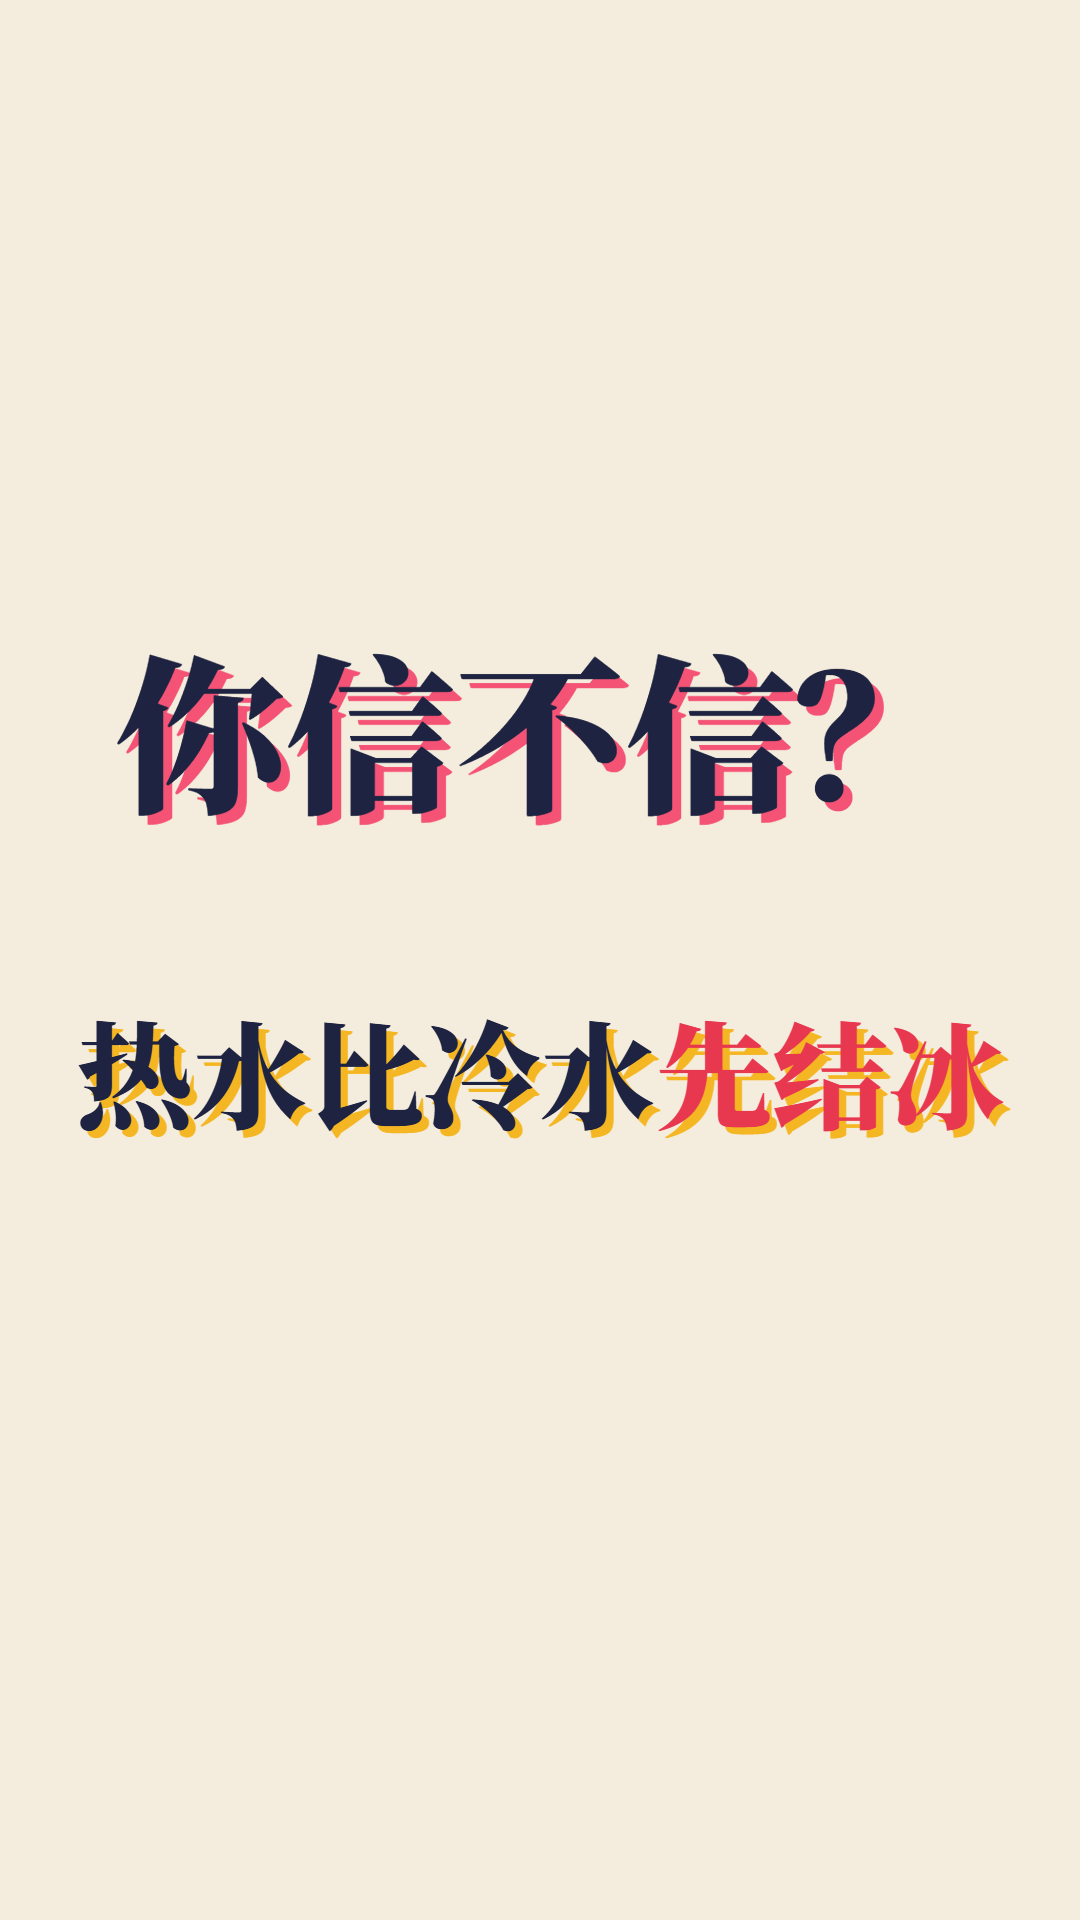
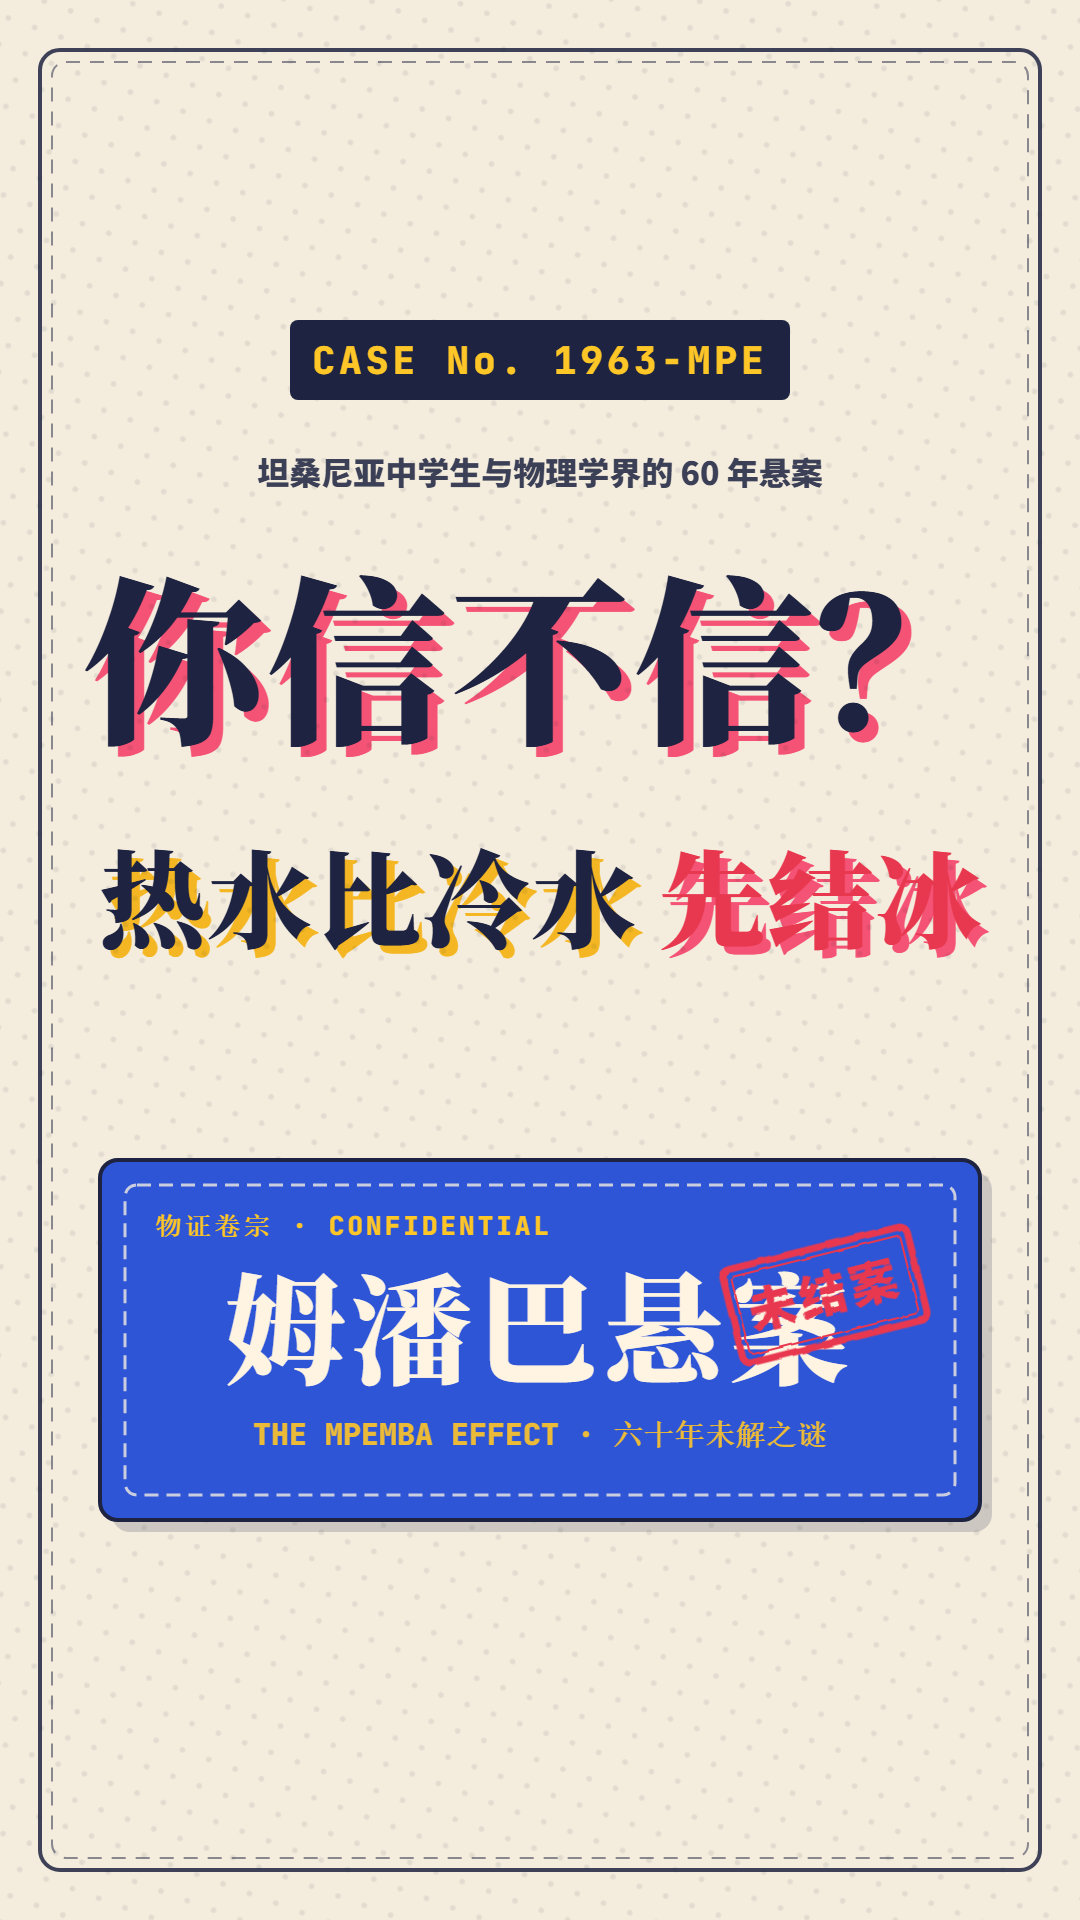
films/mpemba: rework the vertical cover layout (case header, folder card, safe margins)

Changed region(s): [[0.0306, 0.0312, 0.9778, 0.9688], [0.0917, 0.2812, 0.9167, 0.5], [0.2444, 0.1562, 0.7639, 0.25]]

diff --git a/films/mpemba/cover.html b/films/mpemba/cover.html
@@ -12,48 +12,111 @@
 </head>
 <body>
 <svg id="cover" width="1080" height="1920" viewBox="0 0 1080 1920" xmlns="http://www.w3.org/2000/svg">
+  <defs>
+    <pattern id="halftoneDots" width="28" height="28" patternUnits="userSpaceOnUse" patternTransform="rotate(20)">
+      <circle cx="14" cy="14" r="2.8" fill="#1D2340" opacity="0.08"/>
+    </pattern>
+    <filter id="stampRough">
+      <feTurbulence type="fractalNoise" baseFrequency="0.05" numOctaves="3" result="noise"/>
+      <feDisplacementMap in="SourceGraphic" in2="noise" scale="3.5" xChannelSelector="R" yChannelSelector="G"/>
+    </filter>
+  </defs>
+
+  <!-- Paper background & halftone overlay -->
+  <rect width="1080" height="1920" fill="#F4ECDD"/>
+  <rect width="1080" height="1920" fill="url(#halftoneDots)" class="mul"/>
+
+  <!-- Outer dossier border -->
+  <rect x="40" y="50" width="1000" height="1820" rx="20" fill="none" stroke="#1D2340" stroke-width="4" opacity="0.85"/>
+  <rect x="52" y="62" width="976" height="1796" rx="14" fill="none" stroke="#1D2340" stroke-width="2" stroke-dasharray="14 10" opacity="0.5"/>
+
   <g id="g"></g>
 </svg>
 <script>
 const NS = 'http://www.w3.org/2000/svg';
-const C = { paper:'#F4ECDD', navy:'#1D2340', pink:'#FF5A87', yellow:'#FFC628', red:'#E8384F' };
-const F = { serif:"'Noto Serif SC'" };
+const C = { paper:'#F4ECDD', navy:'#1D2340', blue:'#2E55D6', pink:'#FF5A87', yellow:'#FFC628', red:'#E8384F', cream:'#FFF4E2' };
+const F = { serif:"'Noto Serif SC', serif", mono:"'JetBrains Mono', monospace", sans:"'Noto Sans SC', sans-serif" };
 const g = document.getElementById('g');
 const el = (t, a, p) => { const e = document.createElementNS(NS, t); for (const k in a) e.setAttribute(k, a[k]); if (p) p.appendChild(e); return e; };
 const txt = (p, s, a) => { const e = el('text', a, p); e.textContent = s; return e; };
+
 function measure(str, size, family, weight = 900) {
   const c = document.createElement('canvas').getContext('2d');
   c.font = `${weight} ${size}px ${family}`; return c.measureText(str).width;
 }
-// 两行大字：①你信不信？ ②热水比冷水先结冰（关键词红色），垂直分隔确保不重叠
+
+// 1. Top Case Header Tag
+{
+  const topBox = el('g', { transform: 'translate(540, 360)' }, g);
+  el('rect', { x: -250, y: -40, width: 500, height: 80, rx: 8, fill: C.navy }, topBox);
+  txt(topBox, 'CASE No. 1963-MPE', { x: 0, y: 14, 'font-size': 38, 'font-family': F.mono, 'font-weight': 800, fill: C.yellow, 'text-anchor': 'middle', 'letter-spacing': 4 });
+
+  txt(g, '坦桑尼亚中学生与物理学界的 60 年悬案', { x: 540, y: 485, 'font-size': 32, 'font-family': F.sans, 'font-weight': 700, fill: C.navy, 'text-anchor': 'middle', opacity: 0.85 });
+}
+
+// 2. Main Hook Big Headlines
 const A = '你信不信？';
 const B1 = '热水比冷水', B2 = '先结冰';
-const SZ1 = 170, SZ2 = 116;
-const Y1 = 800, Y2 = 1120;
+const SZ1 = 180, SZ2 = 106;
+const Y1 = 730, Y2 = 940;
 const wA = measure(A, SZ1, F.serif, 900);
 const wB1 = measure(B1, SZ2, F.serif, 900), wB2 = measure(B2, SZ2, F.serif, 900);
-// 行1（居中，粉色套印阴影）
+
+// Line 1: 你信不信？
 {
   let x = 540 - wA / 2;
   for (const ch of A) {
     const w = measure(ch, SZ1, F.serif, 900);
-    txt(g, ch, { x: x + w / 2 + 9, y: Y1 + 9, 'font-size': SZ1, 'font-family': F.serif, 'font-weight': 900, fill: C.pink, 'text-anchor': 'middle', class: 'mul' });
+    txt(g, ch, { x: x + w / 2 + 10, y: Y1 + 10, 'font-size': SZ1, 'font-family': F.serif, 'font-weight': 900, fill: C.pink, 'text-anchor': 'middle', class: 'mul' });
     txt(g, ch, { x: x + w / 2, y: Y1, 'font-size': SZ1, 'font-family': F.serif, 'font-weight': 900, fill: C.navy, 'text-anchor': 'middle' });
     x += w;
   }
 }
-// 行2（居中，前五字墨色 + 关键词红色）
+
+// Line 2: 热水比冷水 先结冰
+// Total width is safely ~850px, leaving >110px safe margin on left and right, ensuring "热" is never clipped!
 {
-  const x0 = 540 - (wB1 + wB2) / 2;
+  const totalB = wB1 + wB2 + 20; // 20px gap between parts
+  const x0 = 540 - totalB / 2;
   let x = x0;
-  for (const [str, col] of [[B1, C.navy], [B2, C.red]]) {
-    for (const ch of str) {
-      const w = measure(ch, SZ2, F.serif, 900);
-      txt(g, ch, { x: x + w / 2 + 7, y: Y2 + 7, 'font-size': SZ2, 'font-family': F.serif, 'font-weight': 900, fill: C.yellow, 'text-anchor': 'middle', class: 'mul' });
-      txt(g, ch, { x: x + w / 2, y: Y2, 'font-size': SZ2, 'font-family': F.serif, 'font-weight': 900, fill: col, 'text-anchor': 'middle' });
-      x += w;
-    }
+
+  for (const ch of B1) {
+    const w = measure(ch, SZ2, F.serif, 900);
+    txt(g, ch, { x: x + w / 2 + 8, y: Y2 + 8, 'font-size': SZ2, 'font-family': F.serif, 'font-weight': 900, fill: C.yellow, 'text-anchor': 'middle', class: 'mul' });
+    txt(g, ch, { x: x + w / 2, y: Y2, 'font-size': SZ2, 'font-family': F.serif, 'font-weight': 900, fill: C.navy, 'text-anchor': 'middle' });
+    x += w;
   }
+
+  x += 20; // gap
+
+  for (const ch of B2) {
+    const w = measure(ch, SZ2, F.serif, 900);
+    txt(g, ch, { x: x + w / 2 + 8, y: Y2 + 8, 'font-size': SZ2, 'font-family': F.serif, 'font-weight': 900, fill: C.pink, 'text-anchor': 'middle', class: 'mul' });
+    txt(g, ch, { x: x + w / 2, y: Y2, 'font-size': SZ2, 'font-family': F.serif, 'font-weight': 900, fill: C.red, 'text-anchor': 'middle' });
+    x += w;
+  }
+}
+
+// 3. Middle / Lower Case Folder Card Graphic (Balanced & Spacious)
+{
+  const cardG = el('g', { transform: 'translate(540, 1340)' }, g);
+
+  // Folder card shadow
+  el('rect', { x: -440 + 12, y: -180 + 12, width: 880, height: 360, rx: 18, fill: 'rgba(29,35,64,0.18)' }, cardG);
+  // Folder card base
+  el('rect', { x: -440, y: -180, width: 880, height: 360, rx: 18, fill: C.blue, stroke: C.navy, 'stroke-width': 4 }, cardG);
+  el('rect', { x: -415, y: -155, width: 830, height: 310, rx: 12, fill: 'none', stroke: C.cream, 'stroke-width': 3, 'stroke-dasharray': '14 8', opacity: 0.75 }, cardG);
+
+  // Card text: 姆潘巴悬案
+  txt(cardG, '物证卷宗 · CONFIDENTIAL', { x: -385, y: -105, 'font-size': 26, 'font-family': F.mono, 'font-weight': 700, fill: C.yellow, 'letter-spacing': 3 });
+  txt(cardG, '姆潘巴悬案', { x: 0, y: 35, 'font-size': 120, 'font-family': F.serif, 'font-weight': 900, fill: C.cream, 'text-anchor': 'middle', 'letter-spacing': 6 });
+  txt(cardG, 'THE MPEMBA EFFECT · 六十年未解之谜', { x: 0, y: 105, 'font-size': 30, 'font-family': F.mono, 'font-weight': 600, fill: C.yellow, 'text-anchor': 'middle', opacity: 0.9 });
+
+  // Slanted RED STAMP: 未结案
+  const stampG = el('g', { transform: 'translate(285, -45) rotate(-14)', filter: 'url(#stampRough)' }, cardG);
+  el('rect', { x: -95, y: -48, width: 190, height: 96, rx: 8, fill: 'none', stroke: C.red, 'stroke-width': 7 }, stampG);
+  el('rect', { x: -87, y: -40, width: 174, height: 80, rx: 4, fill: 'none', stroke: C.red, 'stroke-width': 2 }, stampG);
+  txt(stampG, '未结案', { x: 0, y: 17, 'font-size': 48, 'font-family': F.sans, 'font-weight': 900, fill: C.red, 'text-anchor': 'middle', 'letter-spacing': 4 });
 }
 </script>
 </body>
